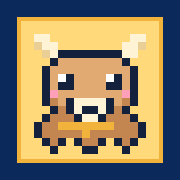
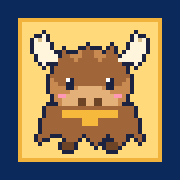
newcharahcte

diff --git a/src/components/Sprite.tsx b/src/components/Sprite.tsx
@@ -1,145 +1,243 @@
 import type { AvatarId } from '../types';
 
 /**
- * 16x16 pixel sprites drawn from text grids. Each character maps to a color in the palette.
+ * Pixel sprites drawn from text grids (characters are 32x32, chest/trophy 16x16). Each character maps to a color in the palette.
  * '.' is transparent. Add a new character by adding a grid + palette entry.
  */
 const PALETTE: Record<string, string> = {
-  k: '#14213d',
+  k: '#1b2340',
   w: '#ffffff',
-  b: '#8a5a36',
-  B: '#c48650',
-  F: '#e0aa72',
-  h: '#fff3d6',
-  H: '#e9cf96',
-  g: '#f2b33d',
+  b: '#6e4426',
+  B: '#a0663a',
+  F: '#c98a52',
+  f: '#e3b07a',
+  h: '#fff4dc',
+  H: '#d9bf8a',
+  g: '#f6b93b',
   G: '#c98a12',
   n: '#0b2a5b',
   N: '#2f6fd6',
-  L: '#8fc1ff',
-  s: '#f6cfa8',
-  S: '#e5a982',
-  r: '#d64545',
-  p: '#8a4fd8',
-  P: '#c4a0f5',
-  e: '#2fa36b',
-  E: '#8be0b0',
-  c: '#9aa5b8',
-  C: '#e3e9f3',
-  q: '#ff9fb8',
-  u: '#f4f1ff',
-  U: '#d9d3f5',
-  y: '#ffe9a8',
+  L: '#86b9ff',
+  s: '#ffd9b8',
+  S: '#eeb48f',
+  p: '#7a43c9',
+  P: '#b48cf0',
+  e: '#2f9e64',
+  E: '#7fd8a6',
+  c: '#9aa8bd',
+  C: '#e6ecf5',
+  q: '#ff98b4',
+  u: '#ffffff',
+  U: '#dcd6f7',
+  y: '#ffe7a0',
+  r: '#e0533f',
+  o: '#8a5a2b',
 };
 
 const GRIDS: Record<AvatarId, string[]> = {
   yak: [
-    '................',
-    '.hh..........hh.',
-    '.Hhh........hhH.',
-    '..Hhkkkkkkkkhh..',
-    '...kFFFFFFFFk...',
-    '..kFFFFFFFFFFk..',
-    '..kFwkFFFFwkFk..',
-    '..kFkkFFFFkkFk..',
-    '..kqFFFFFFFFqk..',
-    '..kBFkhhhhkFBk..',
-    '...kBkhkkhkBk...',
-    '..kBBBkhhkBBBk..',
-    '.kBBgggggggBBBk.',
-    '.kBBBBBgBBBBBBk.',
-    '..kBk.kBBk.kBk..',
-    '...k...kk...k...',
+    '................................',
+    '....k......................k....',
+    '..kkhk....................khkk..',
+    '.khHhk....................khHhk.',
+    '.khhhhk........k.....k...khhhhk.',
+    '.khhhhk..k...kkBkkk.kBk..khhhhk.',
+    '.khhhhhkkBkkkFBBBFFkBBk.khhhhhk.',
+    '..khhhhhkBBFFFBBBFFFBBBkhhhhhk..',
+    '..khhhhhBBBBFBBBBBFBBBBhhhhhhk..',
+    '...khkkkBBBBBBBBBBBBBBBBkkkhk...',
+    '....k.kBBBBBBBBBBBBBBBBBBk.k....',
+    '......kBBBBBBBBBBBBBBBBBBk......',
+    '.....kBBBBBBBBBBBBBBBBBBBBk.....',
+    '.....kFBBBwkBBBBBBBBwkBBBFk.....',
+    '.....kFFBBkkBBBBBBBBkkBBFFk.....',
+    '.....kFFFFkkFffffffFkkFFFFk.....',
+    '.....kFFFFFffffffffffFFFFFk.....',
+    '......kFqqffffffffffffqqFk......',
+    '......kFFffffbbffbbffffFFk......',
+    '.....kkkFffffbbffbbffffFkkk.....',
+    '....kBBBBBBBBBBBBBBBBBBBBBBk....',
+    '....kBBBBggggggggggggggBBBBk....',
+    '....kBBBBggggggggggggggBBBBk....',
+    '...kBBBBBBBBBBggggBBBBBBBBBBk...',
+    '...kBBBBBBBBBBggggBBBBBBBBBBk...',
+    '...kBBBBBBBBBBBBBBBBBBBBBBBBk...',
+    '...kBBBBBBBBBBBBBBBBBBBBBBBBk...',
+    '..kBBBkkkBBBBBkBBBBBkBBBBkkBBk..',
+    '..kBkk...kBBBk.kBBBkkkBBBk.kBk..',
+    '...k....kbbbk...kBkkbbbBk...k...',
+    '........kbbbk....k.kbbbk........',
+    '.........kkk........kkk.........',
   ],
   unicorn: [
-    '........g.......',
-    '.......gG.......',
-    '...k...gk...k...',
-    '..kUk.kgGk.kUk..',
-    '..kuukkkkkkuuk..',
-    '.kNuuuuuuuuuuk..',
-    '.kNuwkuuuuwkuk..',
-    'kNLukkuuuukkuk..',
-    'kNNuquuuuuuqUk..',
-    'kNLuuuUUUUuuUk..',
-    '.kNkuUkUUkUuk...',
-    '.kNNkuuuuuuk....',
-    '..kkuuuuuuuuk...',
-    '...kugggggguk...',
-    '...kuk.kuk.kuk..',
-    '....k...k...k...',
+    '.................k.....kgk......',
+    '................khk....kgk......',
+    '................khk...kGgk......',
+    '................khhk..kggk......',
+    '..............kkkkhkkkGgk.......',
+    '.............kgggghhuugguk......',
+    '.............kgggghuuggguuk.....',
+    '.............kggguuuuuuguuuk....',
+    '............kgggguuuuuuuuuuuk...',
+    '............kgLLNNuuuuwkuuuuuk..',
+    '...........kNNLLLNuuuukkuuuuuk..',
+    '...........kNLLLLuuuuukkuuuuuk..',
+    '..........kNLLLLuuuuuuuuuuuuuuk.',
+    '..........kNNLLkuuuuuuuqquuquuk.',
+    '.........kNNNLNuuuuuuuuuuuuuuuk.',
+    '......k.kuNNNNuuuuuuuuuuuUUUuuk.',
+    '....kkNkuNuuuuuuuuuuuuuuuuuuuk..',
+    '..kkNNNuuuuuuuuuuuuuuukkuuuuk...',
+    '.kNNNLNuuuuuuuuuuuuuuuukkkkk....',
+    '.kNNLLNuuuuuuuuuuuuuuuuk........',
+    '.kNNLLLuuuuuuuuuuuuuuuuk........',
+    'kNNLLLuuuuuuuuuuuuuuuuuk........',
+    'kNNLLLkuuuuuuuuuuuuuuuk.........',
+    'kNNNLk.kuuuuuuuuuuuuuk..........',
+    '.kNNLk.kuuuuUUuUUuuuuk..........',
+    '.kNNk..kuuuuUUuUUuuuuk..........',
+    '..kNk..kuuukUUkUUkuuuk..........',
+    '..kNk..kuuukUUkUUkuuuk..........',
+    '...k...kuuukUUkUUkuuuk..........',
+    '.......kgggkGGkGGkgggk..........',
+    '.......kgggkGGkGGkgggk..........',
+    '........kkk.kk.kk.kkk...........',
   ],
   dragon: [
-    '................',
-    '...gk......kg...',
-    '...kgk....kgk...',
-    '....kkkkkkkk....',
-    '...kNNNNNNNNk...',
-    'gk.kNNNNNNNNNk..',
-    'ggkNNwkNNNwkNk..',
-    'kgkNNkkNNNkkNk..',
-    '.kkNqNNNNNNqNk..',
-    '..kNNNkNkNNNk...',
-    '...kNNNNNNNNk...',
-    '..kNNyyyyyyNNk..',
-    '.kNNNyyyyyyNNNkk',
-    '.kNNNNyyyyNNNkNk',
-    '..kNk.kNNk.kNkk.',
-    '...k...kk...k...',
+    '.......k................k.......',
+    '......kgk..............kgk......',
+    '......kggk............kggk......',
+    '.......kggk..kkkkkk..kggk.......',
+    '.......kgggkkNNNNNNkkgggk.......',
+    'k......kggNNNNNNNNNNNNggk......k',
+    'Gk......kNNNNNNNNNNNNNNk......kG',
+    'GGk....kNNNNNNNNNNNNNNNNk....kGG',
+    'GGk...kNNNNNNNNNNNNNNNNNNk...kGG',
+    'kgGk..kNNNwkNNNNNNNNwkNNNk..kGgk',
+    'kgGGkkNNNNkkNNNNNNNNkkNNNNkkGGgk',
+    'kGgGkkNNNNkkNNNNNNNNkkNNNNkkGgGk',
+    'kGgGGkNNNNNNNLLLLLLNNNNNNNkGGgGk',
+    '.kggGkNNqqNNLLLLLLLLNNqqNNkGggk.',
+    '.kGgGGNNNNNLLLLLLLLLLNNNNNGGgGk.',
+    '.kGgGGkNNNLLLnLLLLnLLLNNNkGGgGk.',
+    'kGGGGGGNNNLLLLLLLLLLLLNNNGGGGGGk',
+    'kGGGGGGkNNNLLLLLLLLLLNNNkGGGGGGk',
+    'Gkkkkkk.kNNNLLwLLwLLNNNk.kkkkkkg',
+    'k........kNNNLLLLLLNNNk.....kggg',
+    '........kNNNNyyyyyyNNNNk.....kgk',
+    '........kNNNyyyyyyyyNNNk.....kgk',
+    '.......kNNNyggggggggyNNNk...kNk.',
+    '.......kNNNyyyyyyyyyyNNNk...kNk.',
+    '.......kNNNyyyyyyyyyyNNNkkkkNk..',
+    '.......kNNNyggggggggyNNNkNNNNk..',
+    '........kNNyyyyyyyyyyNNNNNNNk...',
+    '........kNNNyyyyyyyyNNNNNNNNk...',
+    '.........kNNNyyyyyyNNNNNNkkk....',
+    '........knnnnNyyyyNnnnnkk.......',
+    '........knnnnNNNNNNnnnnk........',
+    '.........kkkkkkkkkkkkkk.........',
   ],
   knight: [
-    '................',
-    '......kgk.......',
-    '.....kkgkk......',
-    '....kCCCCCk.....',
-    '...kCCCCCCCk....',
-    '..kCkkkkkkkCk...',
-    '..kCkswssswkCk..',
-    '..kCkskssksCk...',
-    '..kCkqssssqCk...',
-    '...kCCkkkkCCk...',
-    '..knnNNggNNnnk..',
-    '.kCknNNggNNnkCk.',
-    '.kCknnNNNNnnkCk.',
-    '..k.kGgggggGk.k.',
-    '....knnk.knnk...',
-    '....kkk...kkk...',
+    '..............krkkk.............',
+    '..............krrrrk............',
+    '.............kkrrrrk............',
+    '...........kkCCCCCCrk...........',
+    '..........kCCCCCCCCCCk..........',
+    '.........kCCCCCCCCCCCCk.........',
+    '........kCCCCCCCCCCCCCCk........',
+    '.......kCCCCCCCCCCCCCCCCk.......',
+    '.......kCccccccccccccccCkk......',
+    '......kCCccccccccccccccCCCk.....',
+    '......kCCssssssssssssssCCCk.....',
+    '......kCCsswksssssswkssCCCk.....',
+    '......kCCsskksssssskkssCCCk.....',
+    '......kCCsskksssssskkssCCCk.....',
+    '......kCCssssssssssssssCCCk.....',
+    '.......kCsqqssssssssqqsCCCk.....',
+    '....kkkkCsssssSSSSsssssCCCk.....',
+    '...kCCCCksssssssssssssskCCk.....',
+    '..kCCCCCCkCCCCCCCCCCCCkkCCk.....',
+    '.kCCCNNCCCnnnnnnnnnnnnnkCCk.....',
+    '.kCCNggNCCnnnnnnnnnnnnnkCCkk....',
+    'kCCNNggNNCCNNNggggNNNNGGGGGGk...',
+    'kCCNNggNNCCNNNggggNNNNGGGGGGk...',
+    'kCCNNggNNCCNNNggggNNNNNkkkkk....',
+    'kCCNNggNNCCNNNggggNNNNNk........',
+    '.kCCNggNCCNNNNggggNNNNNk........',
+    '.kCCCNNCCCNNNNggggNNNNNk........',
+    '..kCCCCCCNNNNNggggNNNNNk........',
+    '...kCCCCkNNNNNNNNNNNNNNk........',
+    '....kkkk.knnnnkkkknnnnk.........',
+    '.........knnnnk..knnnnk.........',
+    '..........kkkk....kkkk..........',
   ],
   mage: [
-    '.......kk.......',
-    '......kPPk......',
-    '.....kPgPPk.....',
-    '....kPPPPPPk....',
-    '...kPPPPPPPPk...',
-    '.kkkkkkkkkkkkkk.',
-    '...kssssssssk...',
-    '...kswksswksk...',
-    '...kskksskksk...',
-    '...kqssssssqk...',
-    '....kssssssk....',
-    '...kpgpppgpk.g..',
-    '..kpppgggpppkgk.',
-    '..kppppppppp.k..',
-    '...kpk.kpk.kpk..',
-    '...kk...k...kk..',
+    '...............kpk..............',
+    '..............kpppk.............',
+    '..............kpppk.............',
+    '.............kpPpppk............',
+    '............kppPPpppk.....kk....',
+    '...........kppPPgppppk...kLLk...',
+    '...........kppPPggpppk..kLwLLk..',
+    '..........kppPPPPPPpppkkLLLLLLk.',
+    '.........kpppPpppppppppkLLLLLLk.',
+    '........kpppppppppppppppkLLLLk..',
+    '....kkkkkpppppppppppppppkkLLk...',
+    '...kppppppppppppppppppppppook...',
+    '...kpppppppppsssssspppppppook...',
+    '...kppppppppssssssssppppppook...',
+    '....kkkkkkksssssssssskkkkkook...',
+    '.........kswksssssswksk..kook...',
+    '........ksskksssssskkssk.kook...',
+    '........ksskksssssskkssk.kook...',
+    '........kssssssssssssssk.kook...',
+    '........ksqqssssssssqqsk.kook...',
+    '.........kssssSSSSssssk..kook...',
+    '.......kkkksssssssssskkkkkook...',
+    '......kppppppppggppppppppkook...',
+    '......kppppppppggppppppppkook...',
+    '.....kpppppppppggpppppppppook...',
+    '.....kpppppppppggpppppppppook...',
+    '.....kpppppppppggpppppppppook...',
+    '....kppppppppppggpppppppppook...',
+    '....kppppppppppggpppppppppook...',
+    '...kpppppppppppggpppppppppook...',
+    '...kpppppppppppggpppppppppook...',
+    '....kkkkkkkkkkkkkkkkkkkkkkkk....',
   ],
   ranger: [
-    '................',
-    '.....kkkkkk.....',
-    '....keeEEeek....',
-    '...keeeEEeeek...',
-    '..keeeeeeeeeek..',
-    '..kekssssssk.k..',
-    '...kswksswksk...',
-    '...kskksskksk...',
-    '...kqssssssqk...',
-    '....kssSSssk....',
-    '...keeeeeeeek...',
-    '..keEeeggeeEek..',
-    '.kseeeeggeeeesk.',
-    '..kkeeeeeeeekk..',
-    '....kbk..kbk....',
-    '....kkk..kkk....',
+    '................................',
+    '.............kkkkkk.............',
+    '...........kkeeeeeekk...........',
+    '..........keeeeeeeeeek..........',
+    '.........keeeeeeeeeeeek.........',
+    '........keeeeeeeeeeeeeek...kk...',
+    '.......keeeeeeeeeeeeeeeek.kCok..',
+    '......keeeeeeeeeeeeeeeeeekkCok..',
+    '......keeeeeeeeeeeeeeeeeekkCook.',
+    '.....keeeeeeeeeeeeeeeeeeeekCook.',
+    '.....keeeeeeesssssseeeeeeekCook.',
+    '.....keeeesssssssssssseeeekCkook',
+    '.....keeesswksssssswksseeekCkook',
+    '.....keeesskksssssskksseeekCkook',
+    '.....keeesskksssssskksseeekCkook',
+    '.....keeesssssssssssssseeekCkook',
+    '......keesqqssssssssqqseekkCkook',
+    '......keeesssssssssssseeekkCkook',
+    '.......keessssSSSSsssseek.kCkook',
+    '.......kkeesssssssssseekk.kCkook',
+    '......keeeeeeeeeeeeeeeeeekkCkook',
+    '......keeeeeeeeeeeeeeeeeekkCkook',
+    '......keeeeeeeeeeeeeeeeeekkCook.',
+    '.....keeeeeeeeeeeeeeeeeeeekCook.',
+    '.....keooooooooggooooooooekCook.',
+    '.....keooooooooggooooooooekCok..',
+    '.....keeeeeeeeeeeeeeeeeeeekCok..',
+    '.....keeeeeeeeeeeeeeeeeeeekkk...',
+    '....keeeeeeeeeeeeeeeeeeeeeek....',
+    '....keeeeeooooeeeeooooeeeeek....',
+    '....keeeeeooooeeeeooooeeeeek....',
+    '.....kkkkkkkkkkkkkkkkkkkkkk.....',
   ],
 };
 
@@ -156,16 +254,22 @@ export const AVATAR_IDS = Object.keys(GRIDS) as AvatarId[];
 
 export function Sprite({ id, size = 48, className, title }: { id: AvatarId | 'chest' | 'trophy'; size?: number; className?: string; title?: string }) {
   const grid = id === 'chest' ? CHEST : id === 'trophy' ? TROPHY : GRIDS[id] ?? GRIDS.yak;
+  // Merge runs of the same color in each row into one strip (far fewer SVG nodes).
   const rects: JSX.Element[] = [];
-  grid.forEach((row, y) =>
-    [...row].forEach((ch, x) => {
+  grid.forEach((row, y) => {
+    let x = 0;
+    while (x < row.length) {
+      const ch = row[x];
+      let end = x + 1;
+      while (end < row.length && row[end] === ch) end++;
       const fill = PALETTE[ch];
-      if (fill) rects.push(<rect key={`${x}-${y}`} x={x} y={y} width={1.02} height={1.02} fill={fill} />);
-    }),
-  );
+      if (fill) rects.push(<rect key={`${x}-${y}`} x={x} y={y} width={end - x + 0.02} height={1.02} fill={fill} />);
+      x = end;
+    }
+  });
   return (
     <svg
-      viewBox="0 0 16 16"
+      viewBox={`0 0 ${grid[0].length} ${grid.length}`}
       width={size}
       height={size}
       className={className}
